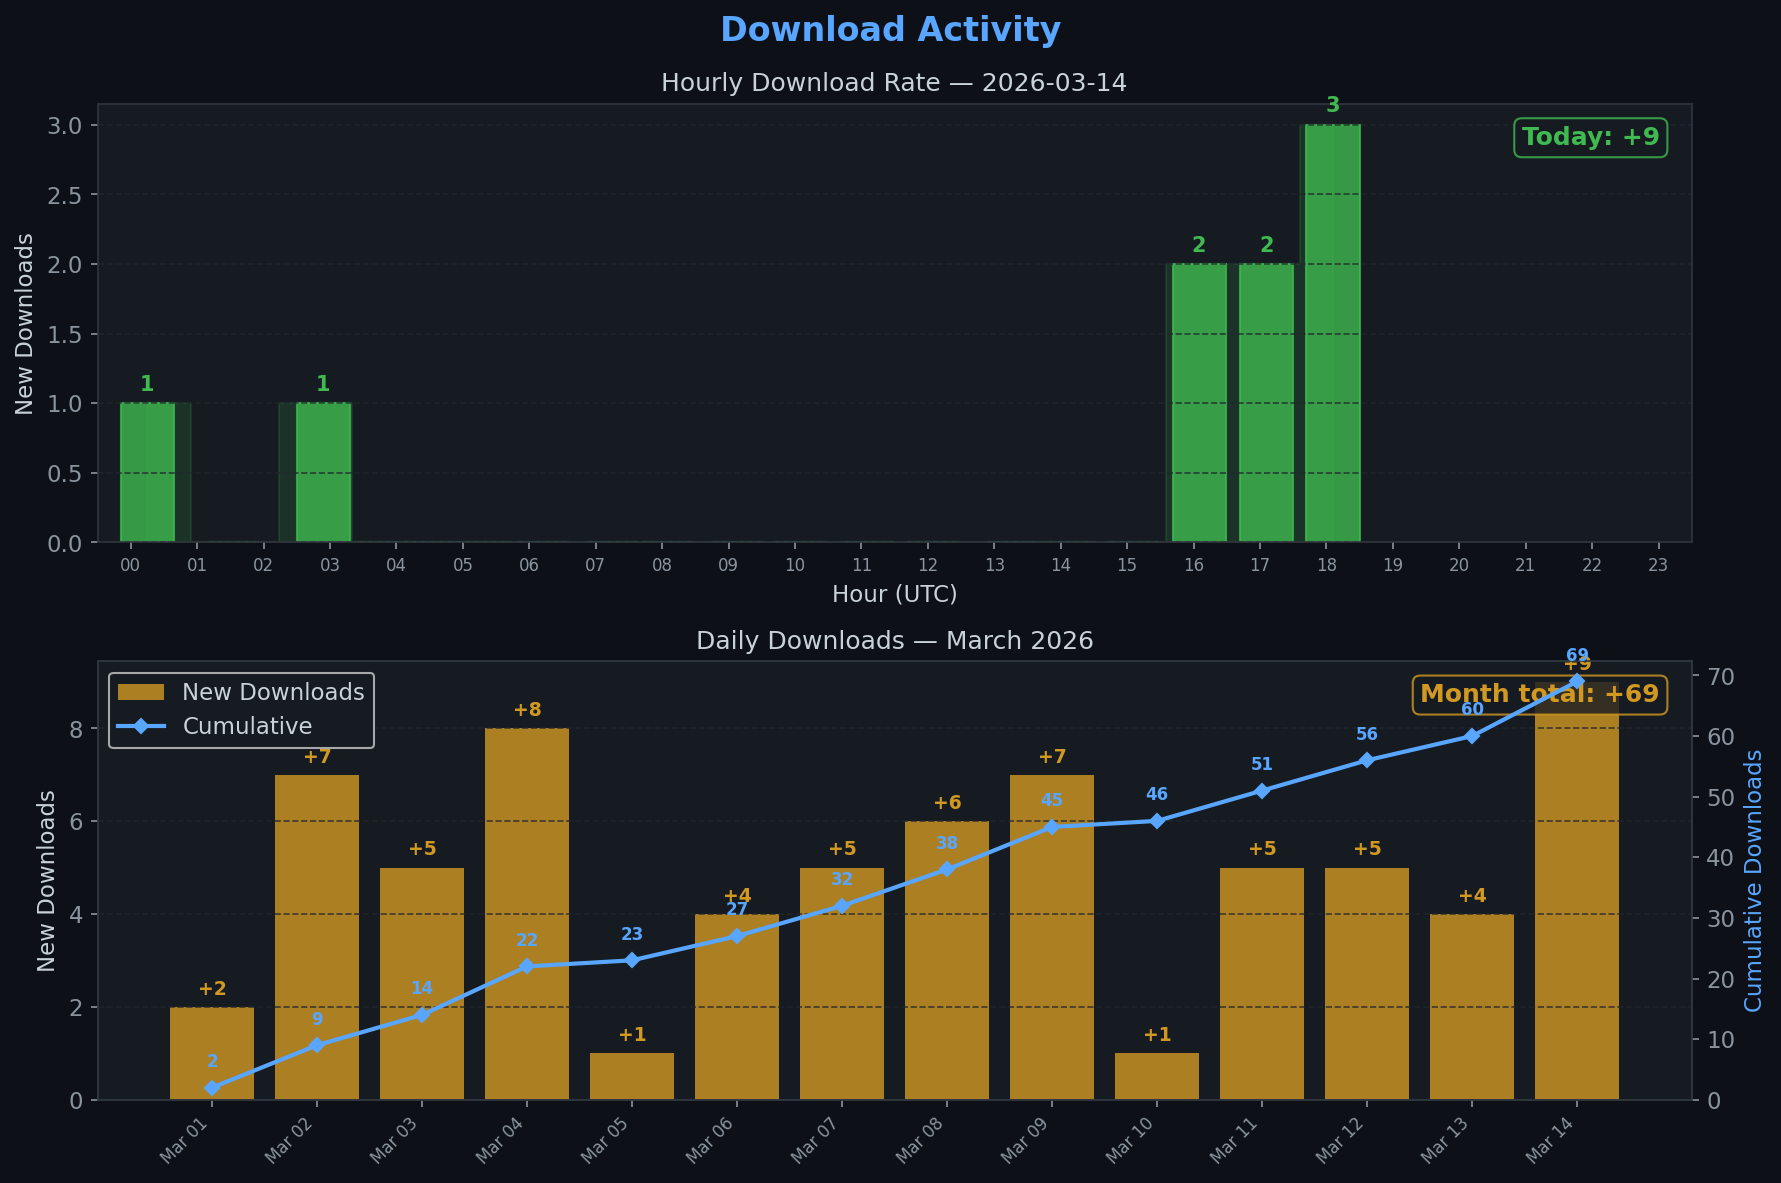
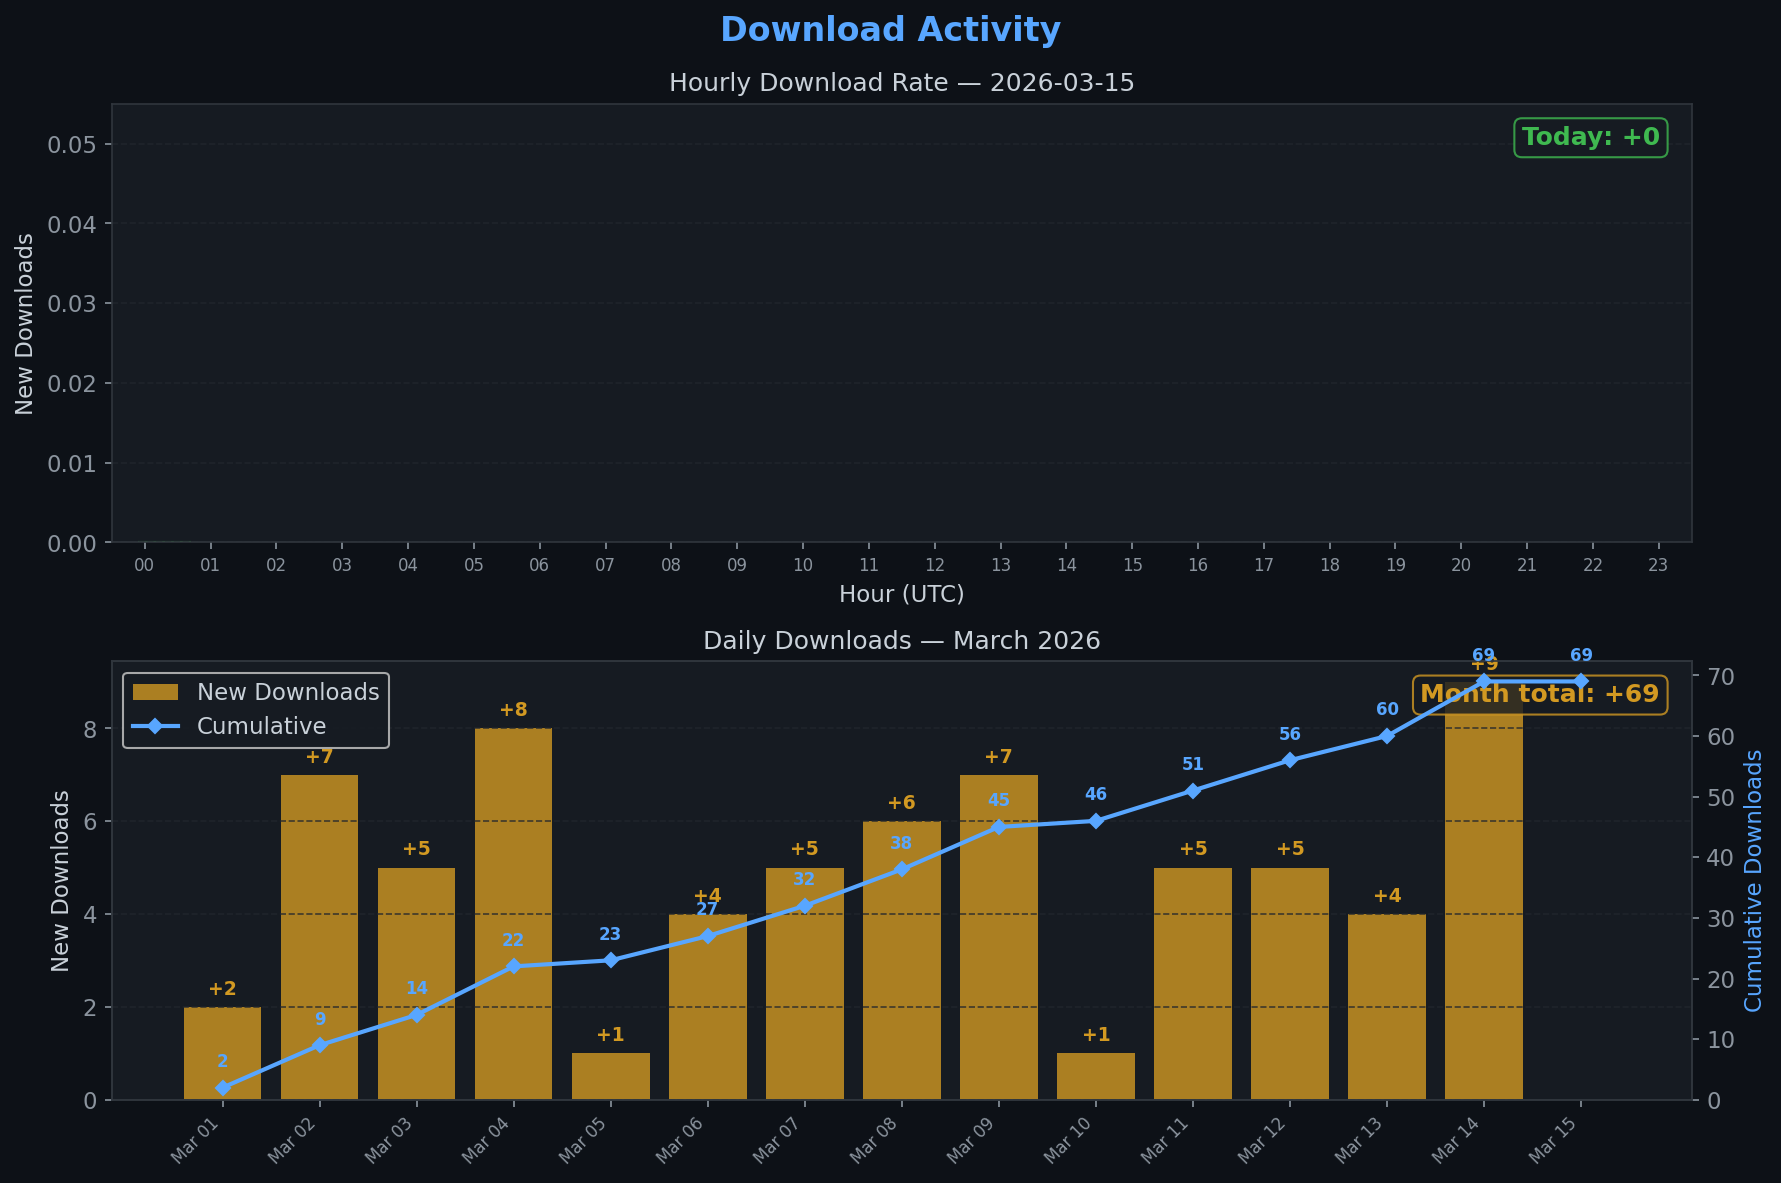
chore: Full traffic snapshot 2026-03-15_00:18

diff --git a/.github/traffic/SUMMARY.md b/.github/traffic/SUMMARY.md
@@ -1,7 +1,7 @@
 # FS25_UsedPlus — Traffic Dashboard
 
-**Last updated:** 2026-03-14T18:06:50Z
-**Days tracked:** 25 | **Download snapshots:** 570 (hourly)
+**Last updated:** 2026-03-15T00:18:47Z
+**Days tracked:** 26 | **Download snapshots:** 576 (hourly)
 
 ---
 
